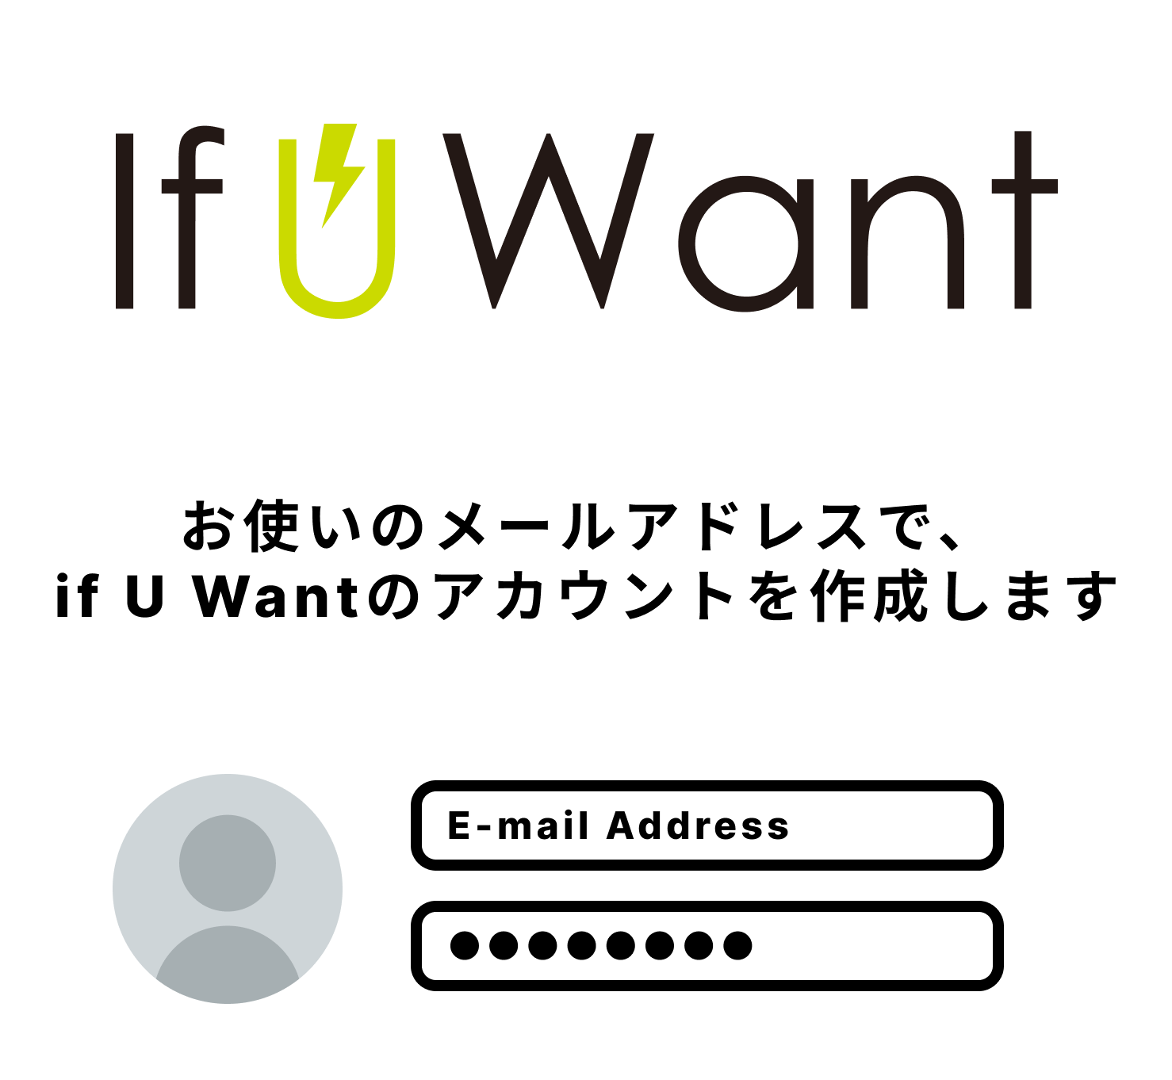
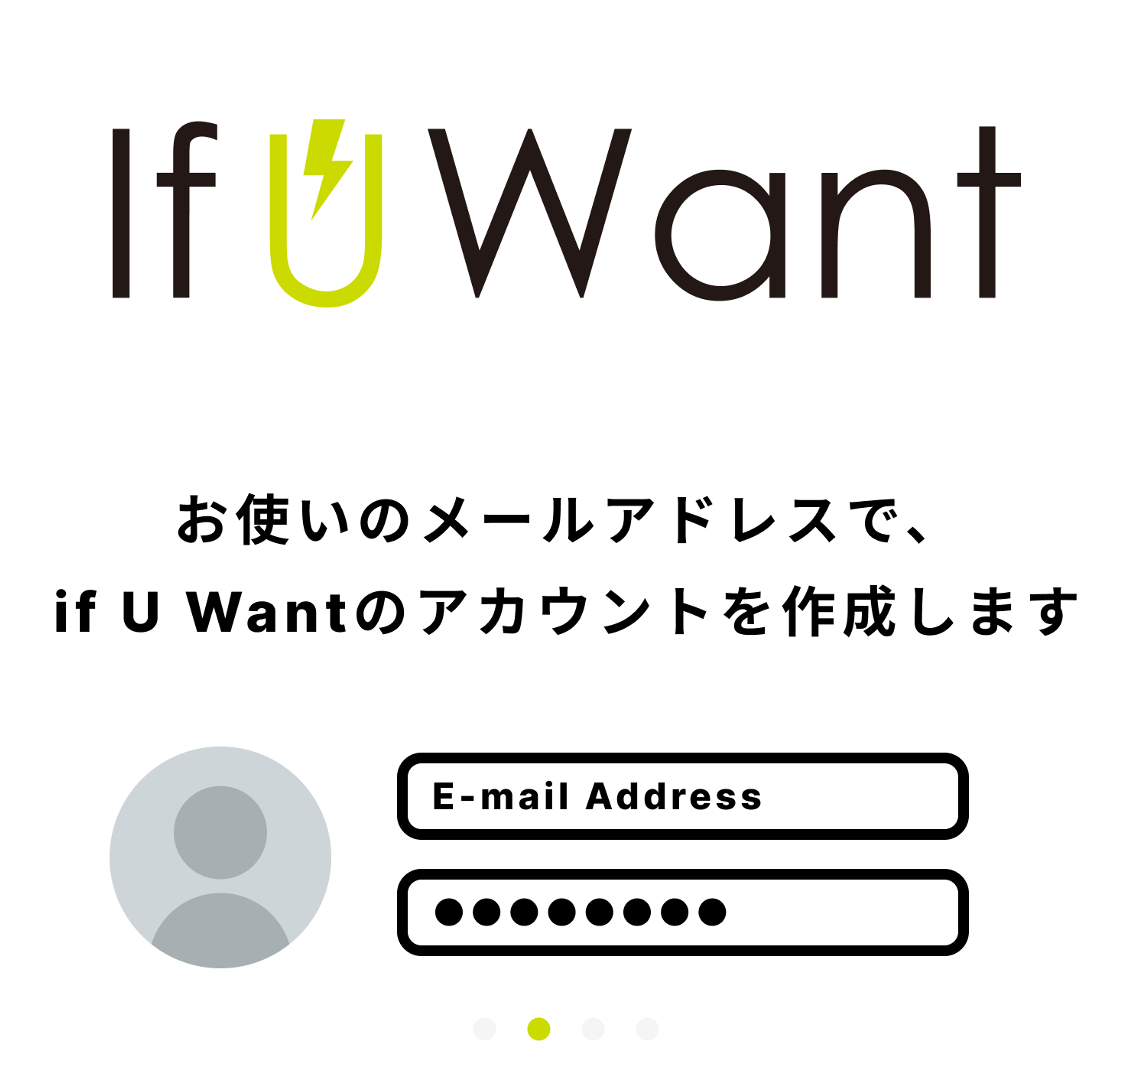
Add files via upload

diff --git a/tut00/tut00.html b/tut00/tut00.html
@@ -1,0 +1,63 @@
+<!DOCTYPE html>
+<html><head><meta http-equiv="Content-Type" content="text/html; charset=UTF-8">
+
+    <meta name="viewport" content="width=device-width, initial-scale=1.0">
+    <title>チュートリアル</title>
+<style>
+body {
+    justify-content: center;
+    align-items: center;
+    height: 100vh;
+    margin: 0;
+}
+
+html, body {
+    margin: 0;
+    padding: 0;
+    width: 100%;
+    height: 100%;
+    overflow-x: hidden;
+    font-family: 'Arial', 'Helvetica', sans-serif;
+}
+
+/* ボタン風リンクのスタイル */
+footer a {
+    display: inline-block;
+    padding: 15px 0;
+    width: 80%;
+    max-width: 300px;
+    font-size: 16px;
+    font-weight: bold;
+    text-align: center;
+    color: #ffffff;
+    background-color: #007BFF; /* 青色の背景 */
+    border-radius: 5px;
+    text-decoration: none;
+    cursor: pointer;
+    transition: background-color 0.3s ease;
+    margin: 20px auto;  /* 上下にスペースを追加 */
+}
+
+/* ホバー時のスタイル */
+footer a:hover {
+    background-color: #0056b3; /* ホバー時の色変更 */
+}
+
+/* フッターのスタイル */
+footer {
+    position: fixed;
+    bottom: 0;
+    width: 100%;
+    text-align: center;
+    padding: 20px 0;
+}
+</style>
+</head>
+    <body style="font-family:sans-serif;">
+        <img style="width:100%;" src="./tut00_files/tut00.png">
+
+	<footer>
+        <a href="../tut01/tut01.html">次へ</a>
+	</footer>
+
+</body></html>

diff --git a/smb01/smb01.html b/smb01/smb01.html
@@ -41,7 +41,7 @@
         <!-- 閉じるボタン -->
         <span id="modal-close" class="modal-close">&times;</span>
         <!-- 利用規約の内容を表示するiframe -->
-        <iframe src="../tut01/tut01.html" style="border: none;" width="100%" height="400px"></iframe>
+        <iframe src="../tut00/tut00.html" style="border: none;" width="100%" height="400px"></iframe>
     </div>
 </div>
 
